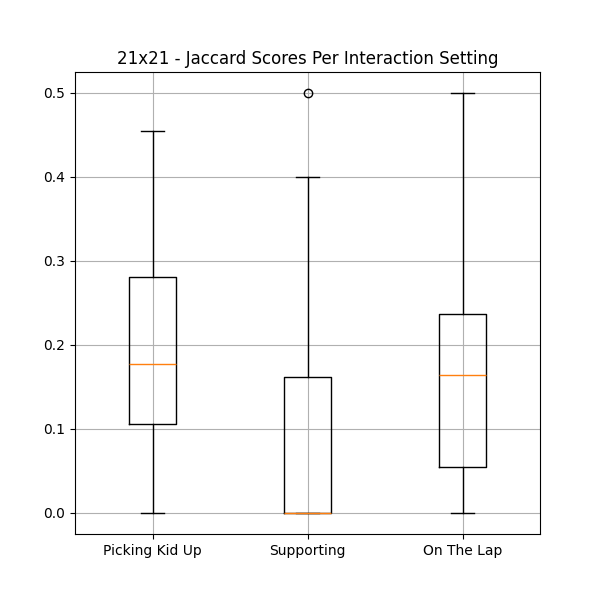
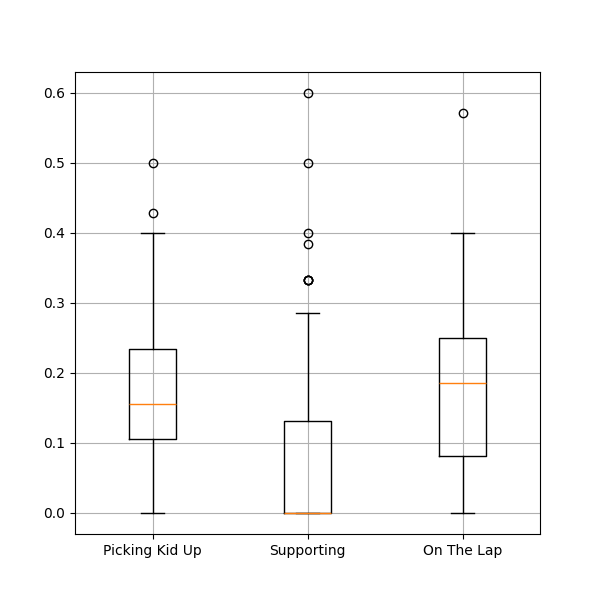
scores per interaction setting

diff --git a/src/visualization/visualize.py b/src/visualization/visualize.py
@@ -224,7 +224,7 @@ def vis_box_and_whiskers_per_setting_score(gts, preds, all_meta, eval_func, save
                     label_scores[label].append(cur_score)
         plt.boxplot([label_scores[label] for label in label_scores], labels=[all_labels[label] for label in label_scores])
         plt.grid()
-        plt.title(f"{key} - Jaccard Scores Per Interaction Setting")
+        # plt.title(f"{key} - Jaccard Scores Per Interaction Setting")
         plt.savefig(os.path.join(save_dir, f'per_setting_score_{label}_{key}.png'))
         plt.show()
         plt.close(fig)
@@ -243,13 +243,20 @@ def vis_interaction_setting_distribution(gts, all_meta, save_dir):
     save_dir = os.path.join(save_dir, "interaction_settings")
     os.makedirs(save_dir, exist_ok=True)
     for key in ["12"]:
-        label_scores = {label: [] for label in all_labels}
         label_distribution = {label: np.zeros(eval(key.replace('x', '*'))) for label in all_labels}
         for label in all_labels:
+            label_counts = {label: 0 for label in all_labels}
+            label_counts['other'] = 0
             for sample_gt, meta in zip(gts[key], all_meta):
                 subj, frame = meta[0][0], meta[1][0]
                 if setting_annotations[(subj, frame)] == label:
                     label_distribution[label] += sample_gt
+
+                if setting_annotations[(subj, frame)] in all_labels:
+                    label_counts[setting_annotations[(subj, frame)]] += 1
+                else:
+                    label_counts['other'] += 1
+            print(label_counts)
 
         theta = radar_factory(eval(key.replace('x', '*'))//2, frame='polygon')
         fig, axs = plt.subplots(figsize=(14, 4), nrows=1, ncols=3,
@@ -259,7 +266,9 @@ def vis_interaction_setting_distribution(gts, all_meta, save_dir):
         colors = ['b', 'r']
         # Plot the four cases from the example data on separate axes
         for ax, label in zip(axs.flat, all_labels):
-            ax.set_rgrids([0.2, 0.4, 0.6, 0.8])
+            ax.set_rgrids([0])
+            # ax.set_rgrids([0.2, 0.4, 0.6, 0.8])
+            # ax.tick_params(axis='y', bottom=False, top=False, labelbottom=False)
             ax.set_title(all_labels[label], weight='bold', size='medium', position=(0.5, 1.1),
                          horizontalalignment='center', verticalalignment='center')
             ax.plot(theta, label_distribution[label][[0, 5, 3, 1, 2, 4]], color=colors[0])
@@ -273,7 +282,7 @@ def vis_interaction_setting_distribution(gts, all_meta, save_dir):
 
         # add legend relative to top-left plot
         labels = ('Parent', 'Infant')
-        legend = axs[0].legend(labels, loc=(0.9, .95), labelspacing=0.1, fontsize='small')
+        legend = axs[2].legend(labels, loc=(0.75, .95), labelspacing=0.1, fontsize='large')
 
         plt.show()
 

diff --git a/src/visualization/analyze_predictions.py b/src/visualization/analyze_predictions.py
@@ -17,7 +17,7 @@ def evaluate(gts, preds, title, print_keys=False):
             print(f"{key}", end='\t&\t' if k < len(all_keys) - 1 else '\t\\\\\n')
     print(title, end='\t&\t')
     for k, key in enumerate(all_keys):
-        print(f"{jaccard_score(gts[key], preds[key], average='micro'):.3f}", end='\t&\t' if k < len(all_keys) - 1 else '\t\\\\')
+        print(f"{jaccard_score(gts[key], preds[key], average='micro'):.4f}", end='\t&\t' if k < len(all_keys) - 1 else '\t\\\\')
     print()
 
 
@@ -149,8 +149,8 @@ def gen_teaser_image():
 
 
 def main():
-    # box_and_whiskers_test_set()
-    gen_teaser_image()
+    box_and_whiskers_test_set()
+    # gen_teaser_image()
 
 
 if __name__ == '__main__':
